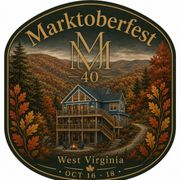
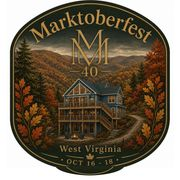
Complete badge bottom; remove ridges, CTA subtext, weather note
- Reconstruct the clipped bottom of the badge artwork: extend the canvas
  and redraw the dark-green shield cap with its gold frame arc, matching
  the measured border contour/colors so the badge reads as a closed shape
  instead of being cut off flat at "OCT 16-18"
- Remove the decorative ridge SVG between the hero and Essentials
- Capitalize the section heading to "Essentials"
- Remove the birthday-cake emoji from "Saturday Dinner"
- Remove the subtext under "Are you in?" (keep heading + RSVP button)
- Remove the weather note at the end of the Explore section

The RSVP party-size + guest-name fields (added previously) are retained.

Claude-Session: https://claude.ai/code/session_01RLxbzmfJqNwNr8NnqYnarX

diff --git a/app/page.tsx b/app/page.tsx
@@ -20,7 +20,7 @@ export default async function HomePage() {
     <div>
       {/* Hero */}
       <section className="relative overflow-hidden bg-cream-50">
-        <div className="relative mx-auto flex max-w-5xl flex-col items-center px-4 pb-44 pt-10 text-center sm:pb-60 sm:pt-14">
+        <div className="relative mx-auto flex max-w-5xl flex-col items-center px-4 pb-16 pt-10 text-center sm:pb-20 sm:pt-14">
           {/* Event badge — white background melts into the cream page via multiply */}
           <h1 className="sr-only">{event.heroTitle}</h1>
           <img
@@ -47,25 +47,12 @@ export default async function HomePage() {
             <a href="#rsvp" className="btn-primary w-full sm:w-auto">RSVP now</a>
           </div>
         </div>
-
-        {/* Rolling Appalachian ridges in autumn color — soft curves like the hills around Davis */}
-        <svg
-          className="pointer-events-none absolute inset-x-0 bottom-0 h-32 w-full sm:h-44"
-          viewBox="0 0 1440 320"
-          preserveAspectRatio="none"
-          aria-hidden="true"
-        >
-          <path fill="#e0a52c" fillOpacity="0.4" d="M0 190 C 120 152, 250 148, 380 172 C 510 196, 620 142, 750 150 C 880 158, 990 192, 1120 178 C 1250 164, 1340 172, 1440 156 L1440 320 L0 320 Z" />
-          <path fill="#dd7733" fillOpacity="0.55" d="M0 235 C 160 198, 320 206, 480 226 C 640 246, 790 194, 950 206 C 1110 218, 1290 238, 1440 216 L1440 320 L0 320 Z" />
-          <path fill="#8a3417" fillOpacity="0.85" d="M0 268 C 180 240, 350 250, 530 264 C 710 278, 880 236, 1060 248 C 1240 260, 1350 270, 1440 258 L1440 320 L0 320 Z" />
-          <path fill="#1e301d" d="M0 300 C 200 282, 400 292, 600 300 C 800 308, 1000 284, 1200 292 C 1320 297, 1400 301, 1440 299 L1440 320 L0 320 Z" />
-        </svg>
       </section>
 
       {/* Details */}
       <section id="details" className="scroll-mt-16 bg-cream-50">
         <div className="mx-auto max-w-5xl px-4 py-16">
-          <h2 className="section-title">The essentials</h2>
+          <h2 className="section-title">Essentials</h2>
           <div className="mt-8 grid gap-6 sm:grid-cols-2">
             <div className="card">
               <h3 className="font-display text-xl font-bold text-pine-900">📅 When</h3>
@@ -134,11 +121,6 @@ export default async function HomePage() {
               </div>
             ))}
           </div>
-
-          <p className="mt-8 text-sm text-pine-500">
-            Weather at ~3,200 ft can swing from crisp to cold — bring layers and a warm jacket
-            for evenings around the fire.
-          </p>
         </div>
       </section>
 
@@ -146,7 +128,6 @@ export default async function HomePage() {
       <section className="bg-ember-500 text-white">
         <div className="mx-auto max-w-3xl px-4 py-16 text-center">
           <h2 className="font-display text-3xl font-bold sm:text-4xl">Are you in?</h2>
-          <p className="mt-3 text-ember-50">Let us know so we can plan food, beds, and carpools.</p>
           <a href="#rsvp" className="btn mt-6 w-full bg-white text-ember-600 hover:bg-ember-50 sm:w-auto">RSVP now</a>
         </div>
       </section>

diff --git a/lib/config.ts b/lib/config.ts
@@ -32,7 +32,7 @@ export const event = {
 export const meals: { id: string; name: string; when: string }[] = [
   { id: "fri-dinner", name: "Friday Welcome Dinner", when: "Friday 6:30 PM" },
   { id: "sat-breakfast", name: "Saturday Breakfast", when: "Saturday 9:00 AM" },
-  { id: "sat-dinner", name: "Saturday Dinner 🎂", when: "Saturday 7:00 PM" },
+  { id: "sat-dinner", name: "Saturday Dinner", when: "Saturday 7:00 PM" },
   { id: "sun-brunch", name: "Sunday Brunch", when: "Sunday 9:00 AM" },
 ];
 